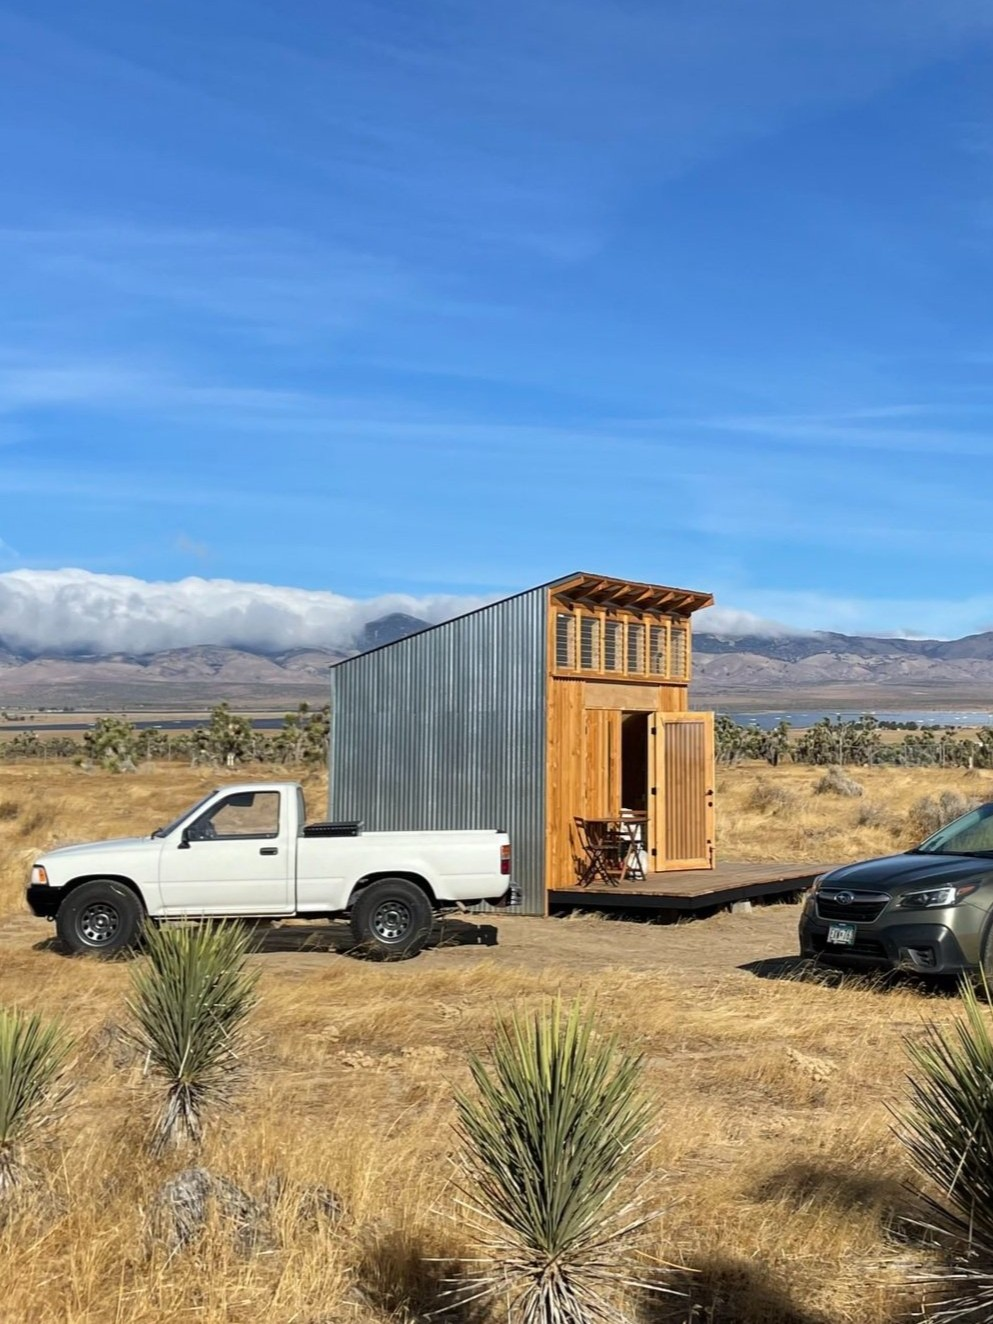
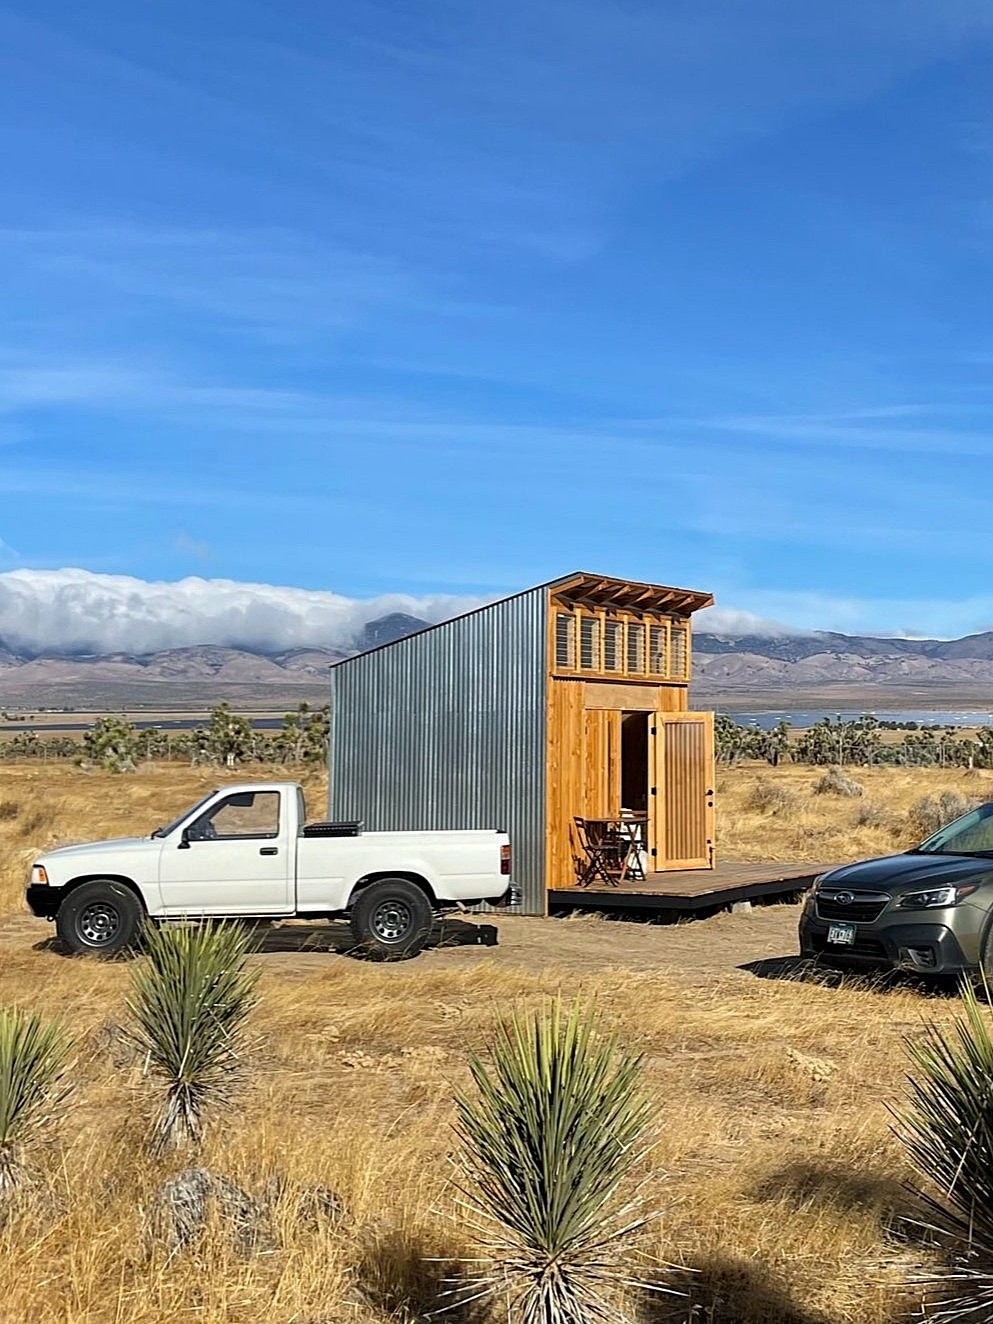
updated images

diff --git a/woodworking.html b/woodworking.html
@@ -88,6 +88,32 @@
           </figcaption>
         </figure>
         <figure class="woodworking-gallery-item">
+          <img src="assets/ca-picture-frame.jpg" alt="California relief map frame" />
+          <figcaption class="woodworking-gallery-caption">
+            <span class="woodworking-gallery-caption-title">California relief map frame</span>
+            <span class="woodworking-gallery-caption-text">Poplar and teak.</span>
+            <span class="woodworking-gallery-caption-meta">37.867634, -122.497741</span>
+          </figcaption>
+        </figure>
+        <figure class="woodworking-gallery-item">
+          <img class="woodworking-gallery-image-zoomed" src="assets/toolchest.jpg" alt="Tool Chest" />
+          <figcaption class="woodworking-gallery-caption">
+            <span class="woodworking-gallery-caption-title">Tool Chest</span>
+            <span class="woodworking-gallery-caption-text">Through mortise and tenons. Cedar.</span>
+            <span class="woodworking-gallery-caption-meta">37.870395, -122.254462</span>
+          </figcaption>
+        </figure>
+        <figure class="woodworking-gallery-item">
+          <a class="woodworking-gallery-link" href="/arques.html">
+            <img src="assets/2025-02-11[phone redacted].jpg" alt="Arques School" />
+          </a>
+          <figcaption class="woodworking-gallery-caption">
+            <span class="woodworking-gallery-caption-title">Arques School</span>
+            <span class="woodworking-gallery-caption-text">Fundamentals of traditional boatbuilding.</span>
+            <span class="woodworking-gallery-caption-meta">37.867634, -122.497741</span>
+          </figcaption>
+        </figure>
+        <figure class="woodworking-gallery-item">
           <img src="assets/IMG_2157.jpg" alt="Portable Vanity" />
           <figcaption class="woodworking-gallery-caption">
             <span class="woodworking-gallery-caption-title">Portable Vanity</span>
@@ -104,16 +130,6 @@
           </figcaption>
         </figure>
         <figure class="woodworking-gallery-item">
-          <a class="woodworking-gallery-link" href="/arques.html">
-            <img src="assets/2025-02-11[phone redacted].jpg" alt="Arques School" />
-          </a>
-          <figcaption class="woodworking-gallery-caption">
-            <span class="woodworking-gallery-caption-title">Arques School</span>
-            <span class="woodworking-gallery-caption-text">Fundamentals of traditional boatbuilding.</span>
-            <span class="woodworking-gallery-caption-meta">37.867634, -122.497741</span>
-          </figcaption>
-        </figure>
-        <figure class="woodworking-gallery-item">
           <img src="assets/2023-01-20[phone redacted].jpg" alt="Cocktail Bar" />
           <figcaption class="woodworking-gallery-caption">
             <span class="woodworking-gallery-caption-title">Cocktail Bar</span>
@@ -122,11 +138,19 @@
           </figcaption>
         </figure>
         <figure class="woodworking-gallery-item">
-          <img class="woodworking-gallery-image-zoomed" src="assets/toolchest.jpg" alt="Tool Chest (in progress)" />
+          <img src="assets/walnut-box.jpg" alt="Walnut Box" />
           <figcaption class="woodworking-gallery-caption">
-            <span class="woodworking-gallery-caption-title">Tool Chest (in progress)</span>
-            <span class="woodworking-gallery-caption-text">Through mortise and tenons. Cedar.</span>
-            <span class="woodworking-gallery-caption-meta">37.870395, -122.254462</span>
+            <span class="woodworking-gallery-caption-title">Walnut Box</span>
+            <span class="woodworking-gallery-caption-text">Black walnut.</span>
+            <span class="woodworking-gallery-caption-meta">33.771698, -118.148096</span>
+          </figcaption>
+        </figure>
+        <figure class="woodworking-gallery-item">
+          <img src="assets/haison-woodpurse-itlaphoto.com-9451.jpg" alt="Music Box (coming soon)" />
+          <figcaption class="woodworking-gallery-caption">
+            <span class="woodworking-gallery-caption-title">Music Box (coming soon)</span>
+            <span class="woodworking-gallery-caption-text">Walnut.</span>
+            <span class="woodworking-gallery-caption-meta">33.771698, -118.148096</span>
           </figcaption>
         </figure>
         <figure class="woodworking-gallery-item">
@@ -140,35 +164,11 @@
           </figcaption>
         </figure>
         <figure class="woodworking-gallery-item">
-          <img src="assets/small-walnut-box.jpg" alt="Shaker Boxes" />
+          <img src="assets/shakerbox.jpg" alt="Shaker Boxes" />
           <figcaption class="woodworking-gallery-caption">
             <span class="woodworking-gallery-caption-title">Shaker Boxes</span>
             <span class="woodworking-gallery-caption-text">Steam bent red oak.</span>
             <span class="woodworking-gallery-caption-meta">33.884444, -118.097553</span>
-          </figcaption>
-        </figure>
-        <figure class="woodworking-gallery-item">
-          <img src="assets/walnut-box.jpg" alt="Walnut Box" />
-          <figcaption class="woodworking-gallery-caption">
-            <span class="woodworking-gallery-caption-title">Walnut Box</span>
-            <span class="woodworking-gallery-caption-text">Black walnut.</span>
-            <span class="woodworking-gallery-caption-meta">33.771698, -118.148096</span>
-          </figcaption>
-        </figure>
-        <figure class="woodworking-gallery-item">
-          <img src="assets/haison-woodpurse-itlaphoto.com-9451.jpg" alt="Swampscott Dory (coming soon)" />
-          <figcaption class="woodworking-gallery-caption">
-            <span class="woodworking-gallery-caption-title">Swampscott Dory (coming soon)</span>
-            <span class="woodworking-gallery-caption-text">Upcoming restoration project.</span>
-            <span class="woodworking-gallery-caption-meta">37.867634, -122.497741</span>
-          </figcaption>
-        </figure>
-        <figure class="woodworking-gallery-item">
-          <img src="assets/haison-woodpurse-itlaphoto.com-9451.jpg" alt="Music Box (coming soon)" />
-          <figcaption class="woodworking-gallery-caption">
-            <span class="woodworking-gallery-caption-title">Music Box (coming soon)</span>
-            <span class="woodworking-gallery-caption-text">Walnut.</span>
-            <span class="woodworking-gallery-caption-meta">33.771698, -118.148096</span>
           </figcaption>
         </figure>
         <figure class="woodworking-gallery-item">
@@ -180,10 +180,10 @@
           </figcaption>
         </figure>
         <figure class="woodworking-gallery-item">
-          <img src="assets/haison-woodpurse-itlaphoto.com-9451.jpg" alt="California relief map frame (coming soon)" />
+          <img src="assets/dory.jpg" alt="Swampscott Dory (coming soon)" />
           <figcaption class="woodworking-gallery-caption">
-            <span class="woodworking-gallery-caption-title">California relief map frame (coming soon)</span>
-            <span class="woodworking-gallery-caption-text">Poplar and teak.</span>
+            <span class="woodworking-gallery-caption-title">Swampscott Dory (coming soon)</span>
+            <span class="woodworking-gallery-caption-text">Upcoming restoration project.</span>
             <span class="woodworking-gallery-caption-meta">37.867634, -122.497741</span>
           </figcaption>
         </figure>